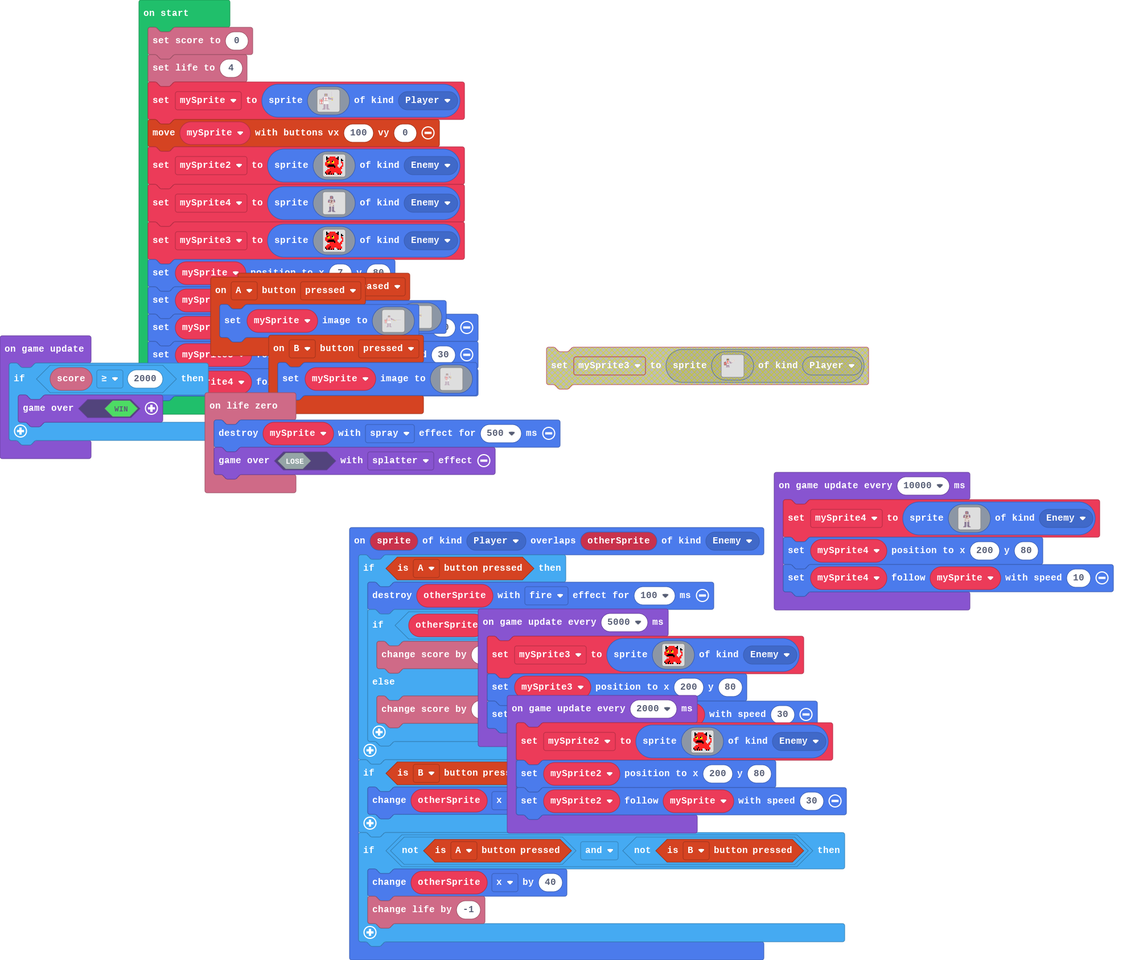
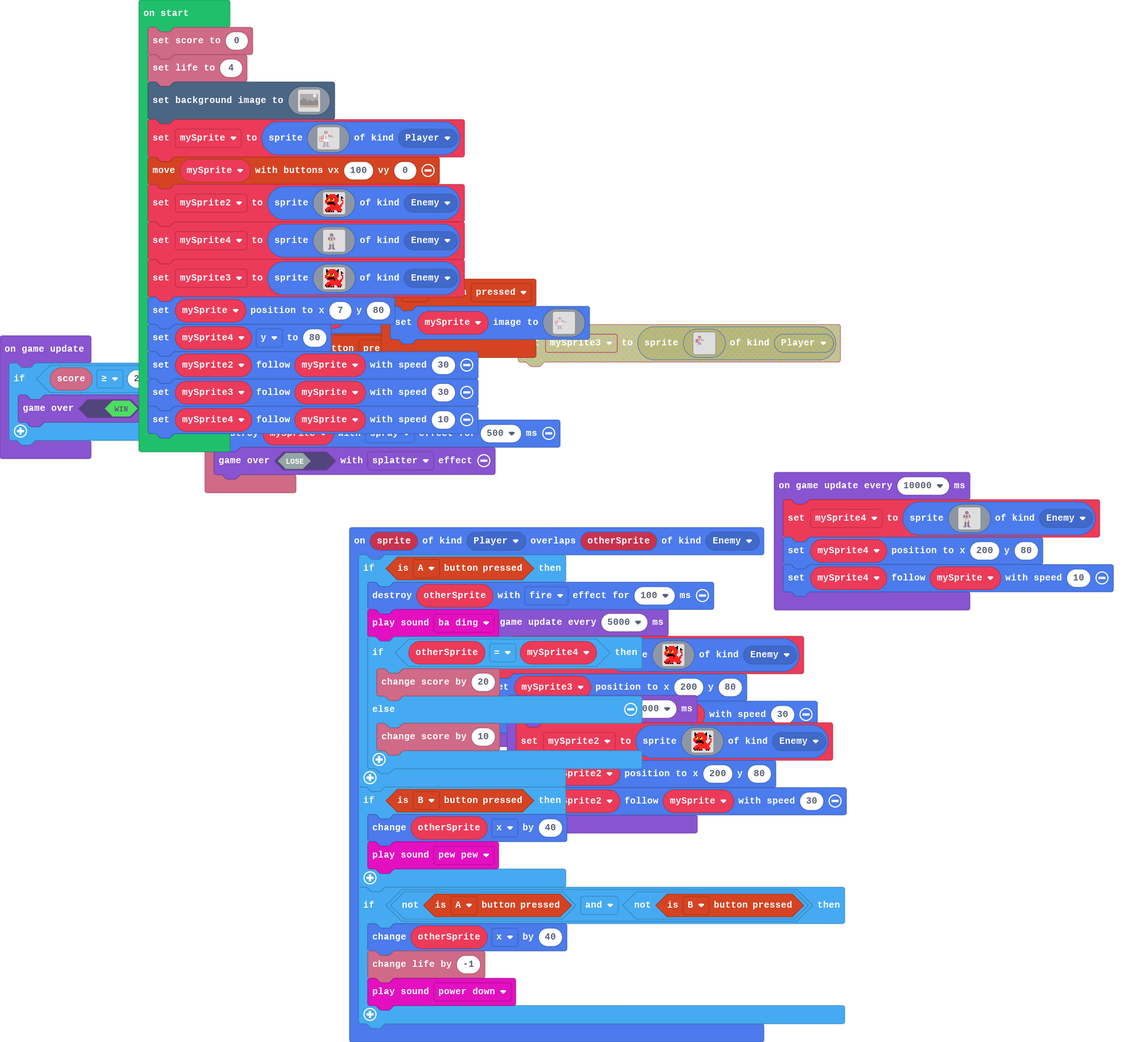
Update main.blocks, main.ts

diff --git a/main.ts b/main.ts
@@ -170,6 +170,7 @@ info.onLifeZero(function () {
 sprites.onOverlap(SpriteKind.Player, SpriteKind.Enemy, function (sprite, otherSprite) {
     if (controller.A.isPressed()) {
         otherSprite.destroy(effects.fire, 100)
+        music.baDing.play()
         if (otherSprite == mySprite4) {
             info.changeScoreBy(20)
         } else {
@@ -178,16 +179,140 @@ sprites.onOverlap(SpriteKind.Player, SpriteKind.Enemy, function (sprite, otherSp
     }
     if (controller.B.isPressed()) {
         otherSprite.x += 40
+        music.pewPew.play()
     }
     if (!(controller.A.isPressed()) && !(controller.B.isPressed())) {
         otherSprite.x += 40
         info.changeLifeBy(-1)
+        music.powerDown.play()
     }
 })
 let mySprite4: Sprite = null
 let mySprite: Sprite = null
 info.setScore(0)
 info.setLife(4)
+scene.setBackgroundImage(img`
+    c c c c c c c c c c c c c c c c c c c c c c c c c c c c c c c c c c c c c c c c c c c c c c c c c c c c c c c c c c c c c c c c c c c c c c c c c c c c c c c c c c c c c c c c c c c c c c c c c c c c c c c c c c c c c c c c c c c c c c c c c c c c c c c c c c c c c c c c c c c c c c c c c c c c c c c c c c c c c c c c 
+    c c c c c c c c c c c c c c c c c c c c c c c c c c c c c c c c c c c c c c c c c c c c c c c c c c c c c c c c c c c c c c c c c c c c c c c c c c c c c c c c c c c c c c c c c c c c c c c c c c c c c c c c c c c c c c c c c c c c c c c c c c c c 1 1 1 1 1 1 1 1 1 1 1 c c c c c c c c c c c c c c c c c c c c c c c c c 
+    c c c c c c c c c c c c c c c c c c c c c c c c c c c c c c c c c c c c c c c c c c c c c c c c c c c c c c c c c c c c c c c c c c c c c c c c c c c c c c c c c c c c c c c c c c c c c c c c c c c c c c c c c c c c c c c c c c c c c c c c c c 1 1 1 1 1 1 1 1 1 1 1 1 1 1 1 c c c c c c c c c c c c c c c c c c c c c c c 
+    c c c c c c c c c c c c c c c c c c c c c c c c c c c c c c c c c c c c c c c c c c c c c c c c c c c c c c c c c c c c c c c c c c c c c c c c c c c c c c c c c c c c c c c c c c c c c c c c c c c c c c c c c c c c c c c c c c c c c c c c 1 1 1 1 1 1 1 1 1 1 1 1 1 1 1 1 1 1 1 c c c c c c c c c c c c c c c c c c c c c 
+    c c c c c c c c c c c c c c c c c c c c c c c c c c c c c c c c c c c c c c c c c c c c c c c c c c c c c c c c c c c c c c c c c c c c c c c c c c c c c c c c c c c c c c c c c c c c c c c c c c c c c c c c c c c c c c c c c c c c c c c 1 1 1 1 1 1 1 1 1 1 1 1 1 1 1 1 1 1 1 1 1 c c c c c c c c c c c c c c c c c c c c 
+    c c c c c c c c c c c c c c c c c c c c c c c c c c c c c c c c c c c c c c c c c c c c c c c c c c c c c c c c c c c c c c c c c c c c c c c c c c c c c c c c c c c c c c c c c c c c c c c c c c c c c c c c c c c c c c c c c c c c c c 1 1 1 1 1 1 1 1 1 1 1 1 1 1 1 1 1 1 1 1 1 1 1 c c c c c c c c c c c c c c c c c c c 
+    c c c c c c c c c c c c c c c c c c c c c c c c c c c c c c c c c c c c c c c c c c c c c c c c c c c c c c c c c c c c c c c c c c c c c c c c c c c c c c c c c c c c c c c c c c c c c c c c c c c c c c c c c c c c c c c c c c c c c 1 1 1 1 1 1 1 1 1 1 1 1 1 1 1 1 1 1 1 1 1 1 1 1 1 c c c c c c c c c c c c c c c c c c 
+    c c c c c c c c c c c c c c c c c c c c c c c c c c c c c c c c c c c c c c c c c c c c c c c c c c c c c c c c c c c c c c c c c c c c c c c c c c c c c c c c c c c c c c c c c c c c c c c c c c c c c c c c c c c c c c c c c c c c c 1 1 1 1 1 1 1 1 1 1 1 1 1 1 1 1 1 1 1 1 1 1 1 1 1 c c c c c c c c c c c c c c c c c c 
+    c c c c c c c c c c c c c c c c c c c c c c c c c c c c c c c c c c c c c c c c c c c c c c c c c c c c c c c c c c c c c c c c c c c c c c c c c c c c c c c c c c c c c c c c c c c c c c c c c c c c c c c c c c c c c c c c c c c c 1 1 1 1 1 1 1 1 1 1 1 1 1 1 1 1 1 1 1 1 1 1 1 1 1 1 1 c c c c c c c c c c c c c c c c c 
+    c c c c c c c c c c c c c c c c c c c c c c c c c c c c c c c c c c c c c c c c c c c c c c c c c c c c c c c c c c c c c c c c c c c c c c c c c c c c c c c c c c c c c c c c c c c c c c c c c c c c c c c c c c c c c c c c c c c c 1 1 1 1 1 1 1 1 1 1 1 1 1 1 1 1 1 1 1 1 1 1 1 1 1 1 1 c c c c c c c c c c c c c c c c c 
+    c c c c c c c c c c c c c c c c c c c c c c c c c c c c c c c c c c c c c c c c c c c c c c c c c c c c c c c c c c c c c c c c c c c c c c c c c c c c c c c c c c c c c c c c c c c c c c c c c c c c c c c c c c c c c c c c c c c 1 1 1 1 1 1 1 1 1 1 1 1 1 1 1 1 1 1 1 1 1 1 1 1 1 1 1 1 1 c c c c c c c c c c c c c c c c 
+    c c c c c c c c c c c c c c c c c c c c c c c c c c c c c c c c c c c c c c c c c c c c c c c c c c c c c c c c c c c c c c c c c c c c c c c c c c c c c c c c c c c c c c c c c c c c c c c c c c c c c c c c c c c c c c c c c c c 1 1 1 1 1 1 1 1 1 1 1 1 1 1 1 1 1 1 1 1 1 1 1 1 1 1 1 1 1 c c c c c c c c c c c c c c c c 
+    c c c c c c c c c c c c c c c c c c c c c c c c c c c c c c c c c c c c c c c c c c c c c c c c c c c c c c c c c c c c c c c c c c c c c c c c c c c c c c c c c c c c c c c c c c c c c c c c c c c c c c c c c c c c c c c c c c c 1 1 1 1 1 1 1 1 1 1 1 1 1 1 1 1 1 1 1 1 1 1 1 1 1 1 1 1 1 c c c c c c c c c c c c c c c c 
+    c c c c c c c c c c c c c c c c c c c c c c c c c c c c c c c c c c c c c c c c c c c c c c c c c c c c c c c c c c c c c c c c c c c c c c c c c c c c c c c c c c c c c c c c c c c c c c c c c c c c c c c c c c c c c c c c c c c 1 1 1 1 1 1 1 1 1 1 1 1 1 1 1 1 1 1 1 1 1 1 1 1 1 1 1 1 1 c c c c c c c c c c c c c c c c 
+    c c c c c c c c c c c c c c c c c c c c c c c c c c c c c c c c c c c c c c c c c c c c c c c c c c c c c c c c c c c c c c c c c c c c c c c c c c c c c c c c c c c c c c c c c c c c c c c c c c c c c c c c c c c c c c c c c c c 1 1 1 1 1 1 1 1 1 1 1 1 1 1 1 1 1 1 1 1 1 1 1 1 1 1 1 1 1 c c c c c c c c c c c c c c c c 
+    c c c c c c c c c c c c c c c c c c c c c c c c c c c c c c c c c c c c c c c c c c c c c c c c c c c c c c c c c c c c c c c c c c c c c c c c c c c c c c c c c c c c c c c c c c c c c c c c c c c c c c c c c c c c c c c c c c c 1 1 1 1 1 1 1 1 1 1 1 1 1 1 1 1 1 1 1 1 1 1 1 1 1 1 1 1 1 c c c c c c c c c c c c c c c c 
+    c c c c c c c c c c c c c c c c c c c c c c c c c c c c c c c c c c c c c c c c c c c c c c c c c c c c c c c c c c c c c c c c c c c c c c c c c c c c c c c c c c c c c c c c c c c c c c c c c c c c c c c c c c c c c c c c c c c 1 1 1 1 1 1 1 1 1 1 1 1 1 1 1 1 1 1 1 1 1 1 1 1 1 1 1 1 1 c c c c c c c c c c c c c c c c 
+    c c c c c c c c c c c c c c c c c c c c c c c c c c c c c c c c c c c c c c c c c c c c c c c c c c c c c c c c c c c c c c c c c c c c c c c c c c c c c c c c c c c c c c c c c c c c c c c c c c c c c c c c c c c c c c c c c c c 1 1 1 1 1 1 1 1 1 1 1 1 1 1 1 1 1 1 1 1 1 1 1 1 1 1 1 1 1 c c c c c c c c c c c c c c c c 
+    c c c c c c c c c c c c c c c c c c c c c c c c c c c c c c c c c c c c c c c c c c c c c c c c c c c c c c c c c c c c c c c c c c c c c c c c c c c c c c c c c c c c c c c c c c c c c c c c c c c c c c c c c c c c c c c c c c c 1 1 1 1 1 1 1 1 1 1 1 1 1 1 1 1 1 1 1 1 1 1 1 1 1 1 1 1 1 c c c c c c c c c c c c c c c c 
+    c c c c c c c c c c c c c c c c c c c c c c c c c c c c c c c c c c c c c c c c c c c c c c c c c c c c c c c c c c c c c c c c c c c c c c c c c c c c c c c c c c c c c c c c c c c c c c c c c c c c c c c c c c c c c c c c c c c 1 1 1 1 1 1 1 1 1 1 1 1 1 1 1 1 1 1 1 1 1 1 1 1 1 1 1 1 1 c c c c c c c c c c c c c c c c 
+    c c c c c c c c c c c c c c c c c c c c c c c c c c c c c c c c c c c c c c c c c c c c c c c c c c c c c c c c c c c c c c c c c c c c c c c c c c c c c c c c c c c c c c c c c c c c c c c c c c c c c c c c c c c c c c c c c c c 1 1 1 1 1 1 1 1 1 1 1 1 1 1 1 1 1 1 1 1 1 1 1 1 1 1 1 1 1 c c c c c c c c c c c c c c c c 
+    c c c c c c c c c c c c c c c c c c c c c c c c c c c c c c c c c c c c c c c c c c c c c c c c c c c c c c c c c c c c c c c c c c c c c c c c c c c c c c c c c c c c c c c c c c c c c c c c c c c c c c c c c c c c c c c c c c c c 1 1 1 1 1 1 1 1 1 1 1 1 1 1 1 1 1 1 1 1 1 1 1 1 1 1 1 c c c c c c c c c c c c c c c c c 
+    c c c c c c c c c c c c c c c c c c c c c c c c c c c c c c c c c c c c c c c c c c c c c c c c c c c c c c c c c c c c c c c c c c c c c c c c c c c c c c c c c c c c c c c c c c c c c c c c c c c c c c c c c c c c c c c c c c c c 1 1 1 1 1 1 1 1 1 1 1 1 1 1 1 1 1 1 1 1 1 1 1 1 1 1 1 c c c c c c c c c c c c c c c c c 
+    c c c c c c c c c c c c c c c c c c c c c c c c c c c c c c c c c c c c c c c c c c c c c c c c c c c c c c c c c c c c c c c c c c c c c c c c c c c c c c c c c c c c c c c c c c c c c c c c c c c c c c c c c c c c c c c c c c c c c 1 1 1 1 1 1 1 1 1 1 1 1 1 1 1 1 1 1 1 1 1 1 1 1 1 c c c c c c c c c c c c c c c c c c 
+    c c c c c c c c c c c c c c c c c c c c c c c c c c c c c c c c c c c c c c c c c c c c c c c c c c c c c c c c c c c c c c c c c c c c c c c c c c c c c c c c c c c c c c c c c c c c c c c c c c c c c c c c c c c c c c c c c c c c c 1 1 1 1 1 1 1 1 1 1 1 1 1 1 1 1 1 1 1 1 1 1 1 1 1 c c c c c c c c c c c c c c c c c c 
+    c c c c c c c c c c c c c c c c c c c c c c c c c c c c c c c c c c c c c c c c c c c c c c c c c c c c c c c c c c c c c c c c c c c c c c c c c c c c c c c c c c c c c c c c c c c c c c c c c c c c c c c c c c c c c c c c c c c c c c 1 1 1 1 1 1 1 1 1 1 1 1 1 1 1 1 1 1 1 1 1 1 1 c c c c c c c c c c c c c c c c c c c 
+    c c c c c c c c c c c c c c c c c c c c c c c c c c c c c c c c c c c c c c c c c c c c c c c c c c c c c c c c c c c c c c c c c c c c c c c c c c c c c c c c c c c c c c c c c c c c c c c c c c c c c c c c c c c c c c c c c c c c c c c 1 1 1 1 1 1 1 1 1 1 1 1 1 1 1 1 1 1 1 1 1 c c c c c c c c c c c c c c c c c c c c 
+    c c c c c c c c c c c c c c c c c c c c c c c c c c c c c c c c c c c c c c c c c c c c c c c c c c c c c c c c c c c c c c c c c c c c c c c c c c c c c c c c c c c c c c c c c c c c c c c c c c c c c c c c c c c c c c c c c c c c c c c c 1 1 1 1 1 1 1 1 1 1 1 1 1 1 1 1 1 1 1 c c c c c c c c c c c c c c c c c c c c c 
+    c c c c c c c c c c c c c c c c c c c c c c c c c c c c c c c c c c c c c c c c c c c c c c c c c c c c c c c c c c c c c c c c c c c c c c c c c c c c c c c c c c c c c c c c c c c c c c c c c c c c c c c c c c c c c c c c c c c c c c c c c c 1 1 1 1 1 1 1 1 1 1 1 1 1 1 1 c c c c c c c c c c c c c c c c c c c c c c c 
+    c c c c c c c c c c c c c c c c c c c c c c c c c c c c c c c c c c c c c c c c c c c c c c c c c c c c c c c c c c c c c c c c c c c c c c c c c c c c c c c c c c c c c c c c c c c c c c c c c c c c c c c c c c c c c c c c c c c c c c c c c c c c 1 1 1 1 1 1 1 1 1 1 1 c c c c c c c c c c c c c c c c c c c c c c c c c 
+    c c c c c c c c c c c c c c c c c c c c c c c c c c c c c c c c c c c c c c c c c c c c c c c c c c c c c c c c c c c c c c c c c c c c c c c c c c c c c c c c c c c c c c c c c c c c c c c c c c c c c c c c c c c c c c c c c c c c c c c c c c c c c c c c c c c c c c c c c c c c c c c c c c c c c c c c c c c c c c c c 
+    c c c c c c c c c c c c c c c c c c c c c c c c c c c c f c c c c c c c c c c c c c c c c c c c c c c c c c c c c c c c c c c c c c c c c c c c c c c c c c c c c c c c c c c c c c c c c c c c c c c c c c c c c c c c c c c c c c c c c c c c c c c c c c c c c c c c c c c c c c c c c c c c c c c c c c c c c c c c c c c c 
+    c c c c c c c c c c c c c c c c c c c c c c c c c c c f f c c c c c c f c c c c c c c c c c c c c c c c c c c c c c c c c c c c c c c c c c c c c c c c c c c c c c c c c c c c c c c c c c c c c c c c c c c c c c c c c c c c c c c c c c c c c c c c c c c c c c c c c c c c c c c c c c c c c c c c c c c c c c c c c c c c 
+    c c c c c c c c c c c c c c c c c c c c c c c c c c c f f f c c c c c f c c c c c c c c c c c c f c c c c c c c c c c c c c c c c c c c c c c c c c c c c c c c c c c c c c c c c c c c c c c c c c c c c c c c c c c c c c c c c c c c c c c c c c c c c c c c c c c c c c c c c c c c c c c c c c c c c c c c c c c c c c c c 
+    c c c c c c c c c c c c c c c c c c c c c c c c c c f f f f f c c c c f f c c c c c c c c c c f f f c c c c c c c c c c c c c c c c c c c c c c c c c c c c c c c c c c c c c c c c c c c c c c c c c c c c c c c c c c c c c c c c c c c c c c c c c c c c c c c c c c c c c c c c c c c c c c c c c c c c c c c c c c c c c c 
+    c c c c c c c c c c c c c c c c c c c c c c c c c f f f f f f f c c c f f c c c c c c c c c c f f f c c c c c c c c c c c c c c c c c c c c c c c c c c c c c c c c c c c c c c c c c c c c c c c c c c c c c c c c c c c c c c c c c c c c c c c c c c c c c c c c c c c c c c c c c c c c c c c c c c c c c c c c c c c c c c 
+    c c c c c c c c c c c c c c c c c c c c c c c c c f f f f f f c c c f f f c c c c c c c c c f f f f f c c c c c c c c c c c c c c c c c c c c c c c c c c c c c c c c c c c c c c c c c c c c c c c c c c c c c c c c c c c c c c c c c c c c c c c c c c c c c c c c c c c c c c c c c c c c c c c c c c c c c c c c c c c c c 
+    c c c c c c c c c c c c c c c c c c c c c c c c c c f f f f f c c c f f f f c c c c c c c c f f f f f f c c c c c c c c c c c c c c c c c c c c c c c c c c c c c c c c c c c c c c c c c c c c c c c c c c c c c c c c c c c c c c c c c c c c c c c c c c c c c c c c c c c c c c c c c c c c c c c c c c c c c c c c c c c c 
+    c c c c c c c c c c c c c c c c c c c c c c c c c f f f f f f f c c c f f c c c c c c c c c c f f f f c c c c c c c c c c c c c c c c c c c c c c c c c c c c c c c c c c c c c c c c c c c c c c c c c c c c c c c c c c c c c c c c c c c c c c c c c c c c c c c c c c c c c c c c c c c c c c c c c c c c c c c c c c c c c 
+    c c c c c c c c c c c c c c c c c c c c c c c c c c f f f f f f f c c f f f c c c c c c c f f f f f f c c c c c c c c c c c c c c c c c c c c c c c c c c c c c c c c c c c c c c c c c c c c c c c c c c c c c c c c c c c c c c c c c c c c c c c c c c c c c c c c c c c c c c c c c c c c c c c c c c c c c c c c c c c c c 
+    c c c c c c c c c c c c c c c c c c c c c c c c c f f f f f f c c c f f f c c c c c c c c c f f f f f f c c c c c c c c c c c c c c c c c c c c c c c c c c c c c c c c c c c c c c c c c c c c c c c c c c c c c c c c c c c c c c c c c c c c c c c c c c c c c c c c c c c c c c c c c c c c c c c c c c c c c c c c c c c c 
+    c c c c c c c c c c c c c c c c c c c c c c c c f f f f f f f f c c f f f f c c c c c c c f f f f f f f f c c c c c c c c c c c c c c c c c c c c c c c c c c c c c c c c c c c c c c c c c c c c c c c c c c c c c c c c c c c c c c c c c c c c c c c c c c c c c c c c c c c c c c c c c c c c c c c c c c c c c c c c c c c 
+    c c c c c c c c c c c c c c c c c c c c c c c c c c f f f f f f f f f f f f c c c c c c f f f f f f f c c c c c c c c c c c c c c c c c c c c c c c c c c c c c c c c c c c c c c c c c c c c c c c c c c c c c c c c c c c c c c c c c c c c c c c c c c c c c c c c c c c c c c c c c c c c c c c c c c c c c c c c c c c c c 
+    c c c c c c c c c c c c c c c c c c c c c c c c c f f f f f f f f f f f f f f f f f f f f f f f f f f f c c c c c c c c c c c c c c c c c c c c c c c c c c c c c c c c c c c c c c c c c c c c c c c c c c c c c c c c c c c c c c c c c c c c c c c c c c c c c c c c c c c c c c c c c c c c c c c c c c c c c c c c c c c c 
+    c c c c c c c c c c c c c f c c c c c c c c c c f f f f f f f f f f f f f f f f f f f f f f f f f f f f f c c c c c c c c c c c c c c c c c c c c c c c c c c c c c c c c c c c c c c c c c c c c c c c c c c c c c c c c c c c c c c c c c c c c c c c c c c c c c c c c c c c c c c c c f c c c c c c c c c c c c c c c c c c 
+    c c c c c c c c c c c c f f f c c c c c c c c c c c f f f f f f f f f f f f f f f f f f f f f f f c c c c c c c c c c c c c c c c c c c c c c c c c c c c c c c c c c c c c c c c c c c c c c c c c c c c c c c c c c c c c c c c c c c c c c c c c c c c c c c c c c c c c c f c c c c f f c c c c c c c c c c c c c c c c c c 
+    c c c c c c c c c c c c f f c c c c c c c c c c f f f f f f f f f f f f f f f f f f f f f f f f f f c c c c c c c c c c c c c c c c c c c c c c c c c c c c c c c c c c f c c c c c c c c c c c c c c c c c c c c c c c c c c c c c c c c c c c c c c c c c c c c c c c c c c f f c c c f f c c c c c c c c c c c c c c c c c c 
+    c c c c c c c c c c c f f f c c c c c c c c c f f f f f f f f f f f f f f f f f f f f f f f f f f f f c c c c c c c c c c c c c c c c c c c c c c c c c c c c c c c c c f f c c c c c c c c c c c c c c c c c c c c c c c c c c c c c c c c c c c c c c c c c c c c c c c c c f f c c f f f c c c c c c c c c c c c c c c c c c 
+    c c c c c c c c c c f f f f f c c c c c c f f f f f f f f f f f f f f f f f f f f f f f f f f f f f f f c c c c c c c c c c c c c c c c c c c c c c c c c c c c c c c c f f c c c c c c c c c c c c c c c c c c c c c c c c c c c c c c c c c c c c c c c c c c c c f c c c f f f f c f f f f f c c c c c c c c c c c c c c c c 
+    c c c c c c c c c c c f f f c c c c c f f f f f f f f f f f f f f f f f f f f f f f f f f f f f f f f f f c c c c c c c c c c c c c c c c c c c c c c c c c c c c c c f f f f c c c c c c c c c c c c c c c c c c c c c c c c c c c c c c c c c c c c c c c c c c f f f c c f f f f c c f f c c c c c c c c c c c c c c c c c c 
+    c c c c c c c c c c c c f f f c c c f f f f f f f f f f f f f f f f f f f f f f f f f f f f f f f f f f f f c c c c c c c c c c c c c c c c c c c c c c c c c c c c c f f f f c c c c f c c c c c c c c c c c c c c c c c c c c c c c c c c c c c c c c c c c c c f f f c c c f f c c f f f f f f c c c c c c c c c c c c c c c 
+    c c c c c c c c c c f f f f c c f f f f f f f f f f f f f f f f f f f f f f f f f f f f f f f f f f f f f f f c c c c c c c c c c c c c c c c c c c c c f f c c c c c c f f c c c c c f c c c c c c c c c c c c c c c c c c c c c c c c c c c c c c c c c c c c f f f f c f f f f f f f f f c c c c c c c c c f c c c c c c c c 
+    c c c c c c c c c c c f f f f f f f f f f f f f f f f f f f f f f f f f f f f f f f f f f f f f f f f f f f f f c c c c c c c c c c c c c c c c c c c f f f c c c c f f f f f f c c c f f c c c c c c c c c c c c c c c c c c c c c c c c c c c c c c c c c c c c c f f f f f f f f f f f f f c c c c c c c c f c c c c c c c c 
+    c c c c c c c c c c c c f f f f f f f f f f f f f f f f f f f f f f f f f f f f f f f f f f f f f f f f f f f f f c c c c c c c c c c c c c c c c c f f f f c c c c c f f f f c c c c f f c c c c c c c c c c c c c c c c c c c c c c c c c c c c c c c c c c c c f f f f f f f f f f f f f c c c c c c c c f f f f c c c c c c 
+    c c c c c c c c c c c c f f f f f f f f f f f f f f f f f f f f f f f f f f f f f f f f f f f f f f f f f f f f f f c c c c c c c c c c c c c c c c c c f f f c c c c f f f f f c c f f f c c c c c c c c c c c c c f c c c c c c c c c c c c c c c c c c c c f f f f f f f f f f f f f f f c c c c c c c c c f c c c c c c c c 
+    c c c c c c c c c c c f f f f f f f f f f f f f f f f f f f f f f f f f f f f f f f f f f f f f f f f f f f f f f f c c c c c c c c c c c c c c c c f f f f f f c f f f f f f f f c f f f f c c c c c c c c c c c f f c c c c c c c c c c c c c c c c c c c c c f f f f f f f f f f f f f f f f f c c c c f f f f c c c c c c c 
+    c c c c c c c c c c f f f f f f f f f f f f f f f f f f f f f f f f f f f f f f f f f f f f f f f f f f f f f f f f f c c c c c c c c c c c c c c f f f f f f f f f f f f f f f f f f f f c c c c c c c c c c c c f f f c c c c c c c c c c c c c f c c c c c f f f f f f f f f f f f f f f f f f f f c c c f f f c c c c c c c 
+    c c c c c c c c f f f f f f f f f f f f f f f f f f f f f f f f f f f f f f f f f f f f f f f f f f f f f f f f f f f f c c c c c c c c c c c c c c c f f f f f f f f f f f f f f f f f f f c c c c c c c c c c f f f f f c c c c c c c c c c c c f c c c c f f f f f f f f f f f f f f f f f f f f f f c c f f f f f c c c c c 
+    c c c c c c c f f f f f f f f f f f f f f f f f f f f f f f f f f f f f f f f f f f f f f f f f f f f f f f f f f f f f f c c c c c c c c c c c c c f f f f f f f f f f f f f f f f f f f c c c c c c c c c c f f f f f f f c c c c c c c c c c c f f c c c c c f f f f f f f f f f f f f f f f f f f f f f f f f f c c c c c c 
+    c c c c c c f f f f f f f f f f f f f f f f f f f f f f f f f f f f f f f f f f f f f f f f f f f f f f f f f f f f f f f f c c c c c c c c c c c f f f f f f f f f f f f f f f f f f f f f f f c c c c c c c f f f f f f c c c c c c c c c c c c f f c c c c f f f f f f f f f f f f f f f f f f f f f f f f f f c c c c c c c 
+    c c c c c f f f f f f f f f f f f f f f f f f f f f f f f f f f f f f f f f f f f f f f f f f f f f f f f f f f f f f f f f f c c c c c c c c c c c c c f f f f f f f f f f f f f f f f f f f f f f f c c c c c f f f f f c c c c c c c c c c c f f f c c c c f f f f f f f f f f f f f f f f f f f f f f f f f f c c c c c c c 
+    c c c f f f f f f f f f f f f f f f f f f f f f f f f f f f f f f f f f f f f f f f f f f f f f f f f f f f f f f f f f f f f f c c c c c c c c c c c f f f f f f f f f f f f f f f f f f f f f f f f f f c c f f f f f f f c c c c c c c c c c c f c c c c f f f f f f f f f f f f f f f f f f f f f f f f f f f f c c c c c c 
+    c c f f f f f f f f f f f f f f f f f f f f f f f f f f f f f f f f f f f f f f f f f f f f f f f f f f f f f f f f f f f f f f f c c c c c c c c f f f f f f f f f f f f f f f f f f f f f f f f f f f f f f f f f f f f f c c c c c c c c c c f f f f c c f f f f f f f f f f f f f f f f f f f f f f f f f f f f f f c c c c 
+    c f f f f f f f f f f f f f f f f f f f f f f f f f f f f f f f f f f f f f f f f f f f f f f f f f f f f f f f f f f f f f f f f f f c c c c c f f f f f f f f f f f f f f f f f f f f f f f f f f f f f f f f f f f f f c c c c c c c c c c c c f f c c f f f f f f f f f f f f f f f f f f f f f f f f f f f f f f f f f c c 
+    f f f f f f f f f f f f f f f f f f f f f f f f f f f f f f f f f f f f f f f f f f f f f f f f f f f f f f f f f f f f f f f f f f f f c c c f f f f f f f f f f f f f f f f f f f f f f f f f f f f f f f f f f f f f f f c c c c c c c c c f f f f f f f f f f f f f f f f f f f f f f f f f f f f f f f f f f f f f f f f f 
+    f f f f f f f f f f f f f f f f f f f f f f f f f f f f f f f f f f f f f f f f f f f f f f f f f f f f f f f f f f f f f f f f f f f f f f f f f f f f f f f f f f f f f f f f f f f f f f f f f f f f f f f f f f f f f f c c c c c c c c c c f f f f f f f f f f f f f f f f f f f f f f f f f f f f f f f f f f f f f f f f 
+    f f f f f f f f f f f f f f f f f f f f f f f f f f f f f f f f f f f f f f f f f f f f f f f f f f f f f f f f f f f f f f f f f f f f f f f f f f f f f f f f f f f f f f f f f f f f f f f f f f f f f f f f f f f f f f f c c c c c c c c c c f f f f f f f f f f f f f f f f f f f f f f f f f f f f f f f f f f f f f f f 
+    f f f f f f f f f f f f f f f f f f f f f f f f f f f f f f f f f f f f f f f f f f f f f f f f f f f f f f f f f f f f f f f f f f f f f f f f f f f f f f f f f f f f f f f f f f f f f f f f f f f f f f f f f f f f f f f f c c c c c c c f f f f f f f f f f f f f f f f f f f f f f f f f f f f f f f f f f f f f f f f f 
+    f f f f f f f f f f f f f f f f f f f f f f f f f f f f f f f f f f f f f f f f f f f f f f f f f f f f f f f f f f f f f f f f f f f f f f f f f f f f f f f f f f f f f f f f f f f f f f f f f f f f f f f f f f f f f f f f f f c c c c f f f f f f f f f f f f f f f f f f f f f f f f f f f f f f f f f f f f f f f f f f 
+    f f f f f f f f f f f f f f f f f f f f f f f f f f f f f f f f f f f f f f f f f f f f f f f f f f f f f f f f f f f f f f f f f f f f f f f f f f f f f f f f f f f f f f f f f f f f f f f f f f f f f f f f f f f f f f f f f f f f f f f f f f f f f f f f f f f f f f f f f f f f f f f f f f f f f f f f f f f f f f f f 
+    f f f f f f f f f f f f f f f f f f f f f f f f f f f f f f f f f f f f f f f f f f f f f f f f f f f f f f f f f f f f f f f f f f f f f f f f f f f f f f f f f f f f f f f f f f f f f f f f f f f f f f f f f f f f f f f f f f f f f f f f f f f f f f f f f f f f f f f f f f f f f f f f f f f f f f f f f f f f f f f f 
+    f f f f f f f f f f f f f f f f f f f f f f f f f f f f f f f f f f f f f f f f f f f f f f f f f f f f f f f f f f f f f f f f f f f f f f f f f f f f f f f f f f f f f f f f f f f f f f f f f f f f f f f f f f f f f f f f f f f f f f f f f f f f f f f f f f f f f f f f f f f f f f f f f f f f f f f f f f f f f f f f 
+    f f f f f f f f f f f f f f f f f f f f f f f f f f f f f f f f f f f f f f f f f f f f f f f f f f f f f f f f f f f f f f f f f f f f f f f f f f f f f f f f f f f f f f f f f f f f f f f f f f f f f f f f f f f f f f f f f f f f f f f f f f f f f f f f f f f f f f f f f f f f f f f f f f f f f f f f f f f f f f f f 
+    f f f f f f f f f f f f f f f f f f f f f f f f f f f f f f f f f f f f f f f f f f f f f f f f f f f f f f f f f f f f f f f f f f f f f f f f f f f f f f f f f f f f f f f f f f f f f f f f f f f f f f f f f f f f f f f f f f f f f f f f f f f f f f f f f f f f f f f f f f f f f f f f f f f f f f f f f f f f f f f f 
+    f f f f f f f f f f f f f f f f f f f f f f f f f f f f f f f f f f f f f f f f f f f f f f f f f f f f f f f f f f f f f f f f f f f f f f f f f f f f f f f f f f f f f f f f f f f f f f f f f f f f f f f f f f f f f f f f f f f f f f f f f f f f f f f f f f f f f f f f f f f f f f f f f f f f f f f f f f f f f f f f 
+    f f f f f f f f f f f f f f f f f f f f f f f f f f f f f f f f f f f f f f f f f f f f f f f f f f f f f f f f f f f f f f f f f f f f f f f f f f f f f f f f f f f f f f f f f f f f f f f f f f f f f f f f f f f f f f f f f f f f f f f f f f f f f f f f f f f f f f f f f f f f f f f f f f f f f f f f f f f f f f f f 
+    f f f f f f f f f f f f f f f f f f f f f f f f f f f f f f f f f f f f f f f f f f f f f f f f f f f f f f f f f f f f f f f f f f f f f f f f f f f f f f f f f f f f f f f f f f f f f f f f f f f f f f f f f f f f f f f f f f f f f f f f f f f f f f f f f f f f f f f f f f f f f f f f f f f f f f f f f f f f f f f f 
+    f f f f f f f f f f f f f f f f f f f f f f f f f f f f f f f f f f f f f f f f f f f f f f f f f f f f f f f f f f f f f f f f f f f f f f f f f f f f f f f f f f f f f f f f f f f f f f f f f f f f f f f f f f f f f f f f f f f f f f f f f f f f f f f f f f f f f f f f f f f f f f f f f f f f f f f f f f f f f f f f 
+    f f f f f f f f f f f f f f f f f f f f f f f f f f f f f f f f f f f f f f f f f f f f f f f f f f f f f f f f f f f f f f f f f f f f f f f f f f f f f f f f f f f f f f f f f f f f f f f f f f f f f f f f f f f f f f f f f f f f f f f f f f f f f f f f f f f f f f f f f f f f f f f f f f f f f f f f f f f f f f f f 
+    f f f f f f f f f f f f f f f f f f f f f f f f f f f f f f f f f f f f f f f f f f f f f f f f f f f f f f f f f f f f f f f f f f f f f f f f f f f f f f f f f f f f f f f f f f f f f f f f f f f f f f f f f f f f f f f f f f f f f f f f f f f f f f f f f f f f f f f f f f f f f f f f f f f f f f f f f f f f f f f f 
+    f f f f f f f f f f f f f f f f f f f f f f f f f f f f f f f f f f f f f f f f f f f f f f f f f f f f f f f f f f f f f f f f f f f f f f f f f f f f f f f f f f f f f f f f f f f f f f f f f f f f f f f f f f f f f f f f f f f f f f f f f f f f f f f f f f f f f f f f f f f f f f f f f f f f f f f f f f f f f f f f 
+    f f f f f f f f f f f f f f f f f f f f f f f f f f f f f f f f f f f f f f f f f f f f f f f f f f f f f f f f f f f f f f f f f f f f f f f f f f f f f f f f f f f f f f f f f f f f f f f f f f f f f f f f f f f f f f f f f f f f f f f f f f f f f f f f f f f f f f f f f f f f f f f f f f f f f f f f f f f f f f f f 
+    f f f f f f f f f f f f f f f f f f f f f f f f f f f f f f f f f f f f f f f f f f f f f f f f f f f f f f f f f f f f f f f f f f f f f f f f f f f f f f f f f f f f f f f f f f f f f f f f f f f f f f f f f f f f f f f f f f f f f f f f f f f f f f f f f f f f f f f f f f f f f f f f f f f f f f f f f f f f f f f f 
+    f f f f f f f f f f f f f f f f f f f f f f f f f f f f f f f f f f f f f f f f f f f f f f f f f f f f f f f f f f f f f f f f f f f f f f f f f f f f f f f f f f f f f f f f f f f f f f f f f f f f f f f f f f f f f f f f f f f f f f f f f f f f f f f f f f f f f f f f f f f f f f f f f f f f f f f f f f f f f f f f 
+    f f f f f f f f f f f f f f f f f f f f f f f f f f f f f f f f f f f f f f f f f f f f f f f f f f f f f f f f f f f f f f f f f f f f f f f f f f f f f f f f f f f f f f f f f f f f f f f f f f f f f f f f f f f f f f f f f f f f f f f f f f f f f f f f f f f f f f f f f f f f f f f f f f f f f f f f f f f f f f f f 
+    f f f f f f f f f f f f f f f f f f f f f f f f f f f f f f f f f f f f f f f f f f f f f f f f f f f f f f f f f f f f f f f f f f f f f f f f f f f f f f f f f f f f f f f f f f f f f f f f f f f f f f f f f f f f f f f f f f f f f f f f f f f f f f f f f f f f f f f f f f f f f f f f f f f f f f f f f f f f f f f f 
+    f f f f f f f f f f f f f f f f f f f f f f f f f f f f f f f f f f f f f f f f f f f f f f f f f f f f f f f f f f f f f f f f f f f f f f f f f f f f f f f f f f f f f f f f f f f f f f f f f f f f f f f f f f f f f f f f f f f f f f f f f f f f f f f f f f f f f f f f f f f f f f f f f f f f f f f f f f f f f f f f 
+    f f f f f f f f f f f f f f f f f f f f f f f f f f f f f f f f f f f f f f f f f f f f f f f f f f f f f f f f f f f f f f f f f f f f f f f f f f f f f f f f f f f f f f f f f f f f f f f f f f f f f f f f f f f f f f f f f f f f f f f f f f f f f f f f f f f f f f f f f f f f f f f f f f f f f f f f f f f f f f f f 
+    f f f f f f f f f f f f f f f f f f f f f f f f f f f f f f f f f f f f f f f f f f f f f f f f f f f f f f f f f f f f f f f f f f f f f f f f f f f f f f f f f f f f f f f f f f f f f f f f f f f f f f f f f f f f f f f f f f f f f f f f f f f f f f f f f f f f f f f f f f f f f f f f f f f f f f f f f f f f f f f f 
+    f f f f f f f f f f f f f f f f f f f f f f f f f f f f f f f f f f f f f f f f f f f f f f f f f f f f f f f f f f f f f f f f f f f f f f f f f f f f f f f f f f f f f f f f f f f f f f f f f f f f f f f f f f f f f f f f f f f f f f f f f f f f f f f f f f f f f f f f f f f f f f f f f f f f f f f f f f f f f f f f 
+    f f f f f f f f f f f f f f f f f f f f f f f f f f f f f f f f f f f f f f f f f f f f f f f f f f f f f f f f f f f f f f f f f f f f f f f f f f f f f f f f f f f f f f f f f f f f f f f f f f f f f f f f f f f f f f f f f f f f f f f f f f f f f f f f f f f f f f f f f f f f f f f f f f f f f f f f f f f f f f f f 
+    f f f f f f f f f f f f f f f f f f f f f f f f f f f f f f f f f f f f f f f f f f f f f f f f f f f f f f f f f f f f f f f f f f f f f f f f f f f f f f f f f f f f f f f f f f f f f f f f f f f f f f f f f f f f f f f f f f f f f f f f f f f f f f f f f f f f f f f f f f f f f f f f f f f f f f f f f f f f f f f f 
+    f f f f f f f f f f f f f f f f f f f f f f f f f f f f f f f f f f f f f f f f f f f f f f f f f f f f f f f f f f f f f f f f f f f f f f f f f f f f f f f f f f f f f f f f f f f f f f f f f f f f f f f f f f f f f f f f f f f f f f f f f f f f f f f f f f f f f f f f f f f f f f f f f f f f f f f f f f f f f f f f 
+    f f f f f f f f f f f f f f f f f f f f f f f f f f f f f f f f f f f f f f f f f f f f f f f f f f f f f f f f f f f f f f f f f f f f f f f f f f f f f f f f f f f f f f f f f f f f f f f f f f f f f f f f f f f f f f f f f f f f f f f f f f f f f f f f f f f f f f f f f f f f f f f f f f f f f f f f f f f f f f f f 
+    f f f f f f f f f f f f f f f f f f f f f f f f f f f f f f f f f f f f f f f f f f f f f f f f f f f f f f f f f f f f f f f f f f f f f f f f f f f f f f f f f f f f f f f f f f f f f f f f f f f f f f f f f f f f f f f f f f f f f f f f f f f f f f f f f f f f f f f f f f f f f f f f f f f f f f f f f f f f f f f f 
+    f f f f f f f f f f f f f f f f f f f f f f f f f f f f f f f f f f f f f f f f f f f f f f f f f f f f f f f f f f f f f f f f f f f f f f f f f f f f f f f f f f f f f f f f f f f f f f f f f f f f f f f f f f f f f f f f f f f f f f f f f f f f f f f f f f f f f f f f f f f f f f f f f f f f f f f f f f f f f f f f 
+    f f f f f f f f f f f f f f f f f f f f f f f f f f f f f f f f f f f f f f f f f f f f f f f f f f f f f f f f f f f f f f f f f f f f f f f f f f f f f f f f f f f f f f f f f f f f f f f f f f f f f f f f f f f f f f f f f f f f f f f f f f f f f f f f f f f f f f f f f f f f f f f f f f f f f f f f f f f f f f f f 
+    f f f f f f f f f f f f f f f f f f f f f f f f f f f f f f f f f f f f f f f f f f f f f f f f f f f f f f f f f f f f f f f f f f f f f f f f f f f f f f f f f f f f f f f f f f f f f f f f f f f f f f f f f f f f f f f f f f f f f f f f f f f f f f f f f f f f f f f f f f f f f f f f f f f f f f f f f f f f f f f f 
+    f f f f f f f f f f f f f f f f f f f f f f f f f f f f f f f f f f f f f f f f f f f f f f f f f f f f f f f f f f f f f f f f f f f f f f f f f f f f f f f f f f f f f f f f f f f f f f f f f f f f f f f f f f f f f f f f f f f f f f f f f f f f f f f f f f f f f f f f f f f f f f f f f f f f f f f f f f f f f f f f 
+    f f f f f f f f f f f f f f f f f f f f f f f f f f f f f f f f f f f f f f f f f f f f f f f f f f f f f f f f f f f f f f f f f f f f f f f f f f f f f f f f f f f f f f f f f f f f f f f f f f f f f f f f f f f f f f f f f f f f f f f f f f f f f f f f f f f f f f f f f f f f f f f f f f f f f f f f f f f f f f f f 
+    e e e e e e e e e e e e e e e e e e e e e e e e e e e e e e e e e e e e e e e e e e e e e e e e e e e e e e e e e e e e e e e e e e e e e e e e e e e e e e e e e e e e e e e e e e e e e e e e e e e e e e e e e e e e e e e e e e e e e e e e e e e e e e e e e e e e e e e e e e e e e e e e e e e e e e e e e e e e e e e e 
+    e e e e e e e e e e e e e e e e e e e e e e e e e e e e e e e e e e e e e e e e e e e e e e e e e e e e e e e e e e e e e e e e e e e e e e e e e e e e e e e e e e e e e e e e e e e e e e e e e e e e e e e e e e e e e e e e e e e e e e e e e e e e e e e e e e e e e e e e e e e e e e e e e e e e e e e e e e e e e e e e 
+    e e e e e e e e e e e e e e e e e e e e e e e e e e e e e e e e e e e e e e e e e e e e e e e e e e e e e e e e e e e e e e e e e e e e e e e e e e e e e e e e e e e e e e e e e e e e e e e e e e e e e e e e e e e e e e e e e e e e e e e e e e e e e e e e e e e e e e e e e e e e e e e e e e e e e e e e e e e e e e e e 
+    e e e e e e e e e e e e e e e e e e e e e e e e e e e e e e e e e e e e e e e e e e e e e e e e e e e e e e e e e e e e e e e e e e e e e e e e e e e e e e e e e e e e e e e e e e e e e e e e e e e e e e e e e e e e e e e e e e e e e e e e e e e e e e e e e e e e e e e e e e e e e e e e e e e e e e e e e e e e e e e e 
+    e e e e e e e e e e e e e e e e e e e e e e e e e e e e e e e e e e e e e e e e e e e e e e e e e e e e e e e e e e e e e e e e e e e e e e e e e e e e e e e e e e e e e e e e e e e e e e e e e e e e e e e e e e e e e e e e e e e e e e e e e e e e e e e e e e e e e e e e e e e e e e e e e e e e e e e e e e e e e e e e 
+    e e e e e e e e e e e e e e e e e e e e e e e e e e e e e e e e e e e e e e e e e e e e e e e e e e e e e e e e e e e e e e e e e e e e e e e e e e e e e e e e e e e e e e e e e e e e e e e e e e e e e e e e e e e e e e e e e e e e e e e e e e e e e e e e e e e e e e e e e e e e e e e e e e e e e e e e e e e e e e e e 
+    e e e e e e e e e e e e e e e e e e e e e e e e e e e e e e e e e e e e e e e e e e e e e e e e e e e e e e e e e e e e e e e e e e e e e e e e e e e e e e e e e e e e e e e e e e e e e e e e e e e e e e e e e e e e e e e e e e e e e e e e e e e e e e e e e e e e e e e e e e e e e e e e e e e e e e e e e e e e e e e e 
+    e e e e e e e e e e e e e e e e e e e e e e e e e e e e e e e e e e e e e e e e e e e e e e e e e e e e e e e e e e e e e e e e e e e e e e e e e e e e e e e e e e e e e e e e e e e e e e e e e e e e e e e e e e e e e e e e e e e e e e e e e e e e e e e e e e e e e e e e e e e e e e e e e e e e e e e e e e e e e e e e 
+    e e e e e e e e e e e e e e e e e e e e e e e e e e e e e e e e e e e e e e e e e e e e e e e e e e e e e e e e e e e e e e e e e e e e e e e e e e e e e e e e e e e e e e e e e e e e e e e e e e e e e e e e e e e e e e e e e e e e e e e e e e e e e e e e e e e e e e e e e e e e e e e e e e e e e e e e e e e e e e e e 
+    e e e e e e e e e e e e e e e e e e e e e e e e e e e e e e e e e e e e e e e e e e e e e e e e e e e e e e e e e e e e e e e e e e e e e e e e e e e e e e e e e e e e e e e e e e e e e e e e e e e e e e e e e e e e e e e e e e e e e e e e e e e e e e e e e e e e e e e e e e e e e e e e e e e e e e e e e e e e e e e e 
+    e e e e e e e e e e e e e e e e e e e e e e e e e e e e e e e e e e e e e e e e e e e e e e e e e e e e e e e e e e e e e e e e e e e e e e e e e e e e e e e e e e e e e e e e e e e e e e e e e e e e e e e e e e e e e e e e e e e e e e e e e e e e e e e e e e e e e e e e e e e e e e e e e e e e e e e e e e e e e e e e 
+    e e e e e e e e e e e e e e e e e e e e e e e e e e e e e e e e e e e e e e e e e e e e e e e e e e e e e e e e e e e e e e e e e e e e e e e e e e e e e e e e e e e e e e e e e e e e e e e e e e e e e e e e e e e e e e e e e e e e e e e e e e e e e e e e e e e e e e e e e e e e e e e e e e e e e e e e e e e e e e e e 
+    e e e e e e e e e e e e e e e e e e e e e e e e e e e e e e e e e e e e e e e e e e e e e e e e e e e e e e e e e e e e e e e e e e e e e e e e e e e e e e e e e e e e e e e e e e e e e e e e e e e e e e e e e e e e e e e e e e e e e e e e e e e e e e e e e e e e e e e e e e e e e e e e e e e e e e e e e e e e e e e e 
+    e e e e e e e e e e e e e e e e e e e e e e e e e e e e e e e e e e e e e e e e e e e e e e e e e e e e e e e e e e e e e e e e e e e e e e e e e e e e e e e e e e e e e e e e e e e e e e e e e e e e e e e e e e e e e e e e e e e e e e e e e e e e e e e e e e e e e e e e e e e e e e e e e e e e e e e e e e e e e e e e 
+    e e e e e e e e e e e e e e e e e e e e e e e e e e e e e e e e e e e e e e e e e e e e e e e e e e e e e e e e e e e e e e e e e e e e e e e e e e e e e e e e e e e e e e e e e e e e e e e e e e e e e e e e e e e e e e e e e e e e e e e e e e e e e e e e e e e e e e e e e e e e e e e e e e e e e e e e e e e e e e e e 
+    e e e e e e e e e e e e e e e e e e e e e e e e e e e e e e e e e e e e e e e e e e e e e e e e e e e e e e e e e e e e e e e e e e e e e e e e e e e e e e e e e e e e e e e e e e e e e e e e e e e e e e e e e e e e e e e e e e e e e e e e e e e e e e e e e e e e e e e e e e e e e e e e e e e e e e e e e e e e e e e e 
+    e e e e e e e e e e e e e e e e e e e e e e e e e e e e e e e e e e e e e e e e e e e e e e e e e e e e e e e e e e e e e e e e e e e e e e e e e e e e e e e e e e e e e e e e e e e e e e e e e e e e e e e e e e e e e e e e e e e e e e e e e e e e e e e e e e e e e e e e e e e e e e e e e e e e e e e e e e e e e e e e 
+    e e e e e e e e e e e e e e e e e e e e e e e e e e e e e e e e e e e e e e e e e e e e e e e e e e e e e e e e e e e e e e e e e e e e e e e e e e e e e e e e e e e e e e e e e e e e e e e e e e e e e e e e e e e e e e e e e e e e e e e e e e e e e e e e e e e e e e e e e e e e e e e e e e e e e e e e e e e e e e e e 
+    e e e e e e e e e e e e e e e e e e e e e e e e e e e e e e e e e e e e e e e e e e e e e e e e e e e e e e e e e e e e e e e e e e e e e e e e e e e e e e e e e e e e e e e e e e e e e e e e e e e e e e e e e e e e e e e e e e e e e e e e e e e e e e e e e e e e e e e e e e e e e e e e e e e e e e e e e e e e e e e e 
+    e e e e e e e e e e e e e e e e e e e e e e e e e e e e e e e e e e e e e e e e e e e e e e e e e e e e e e e e e e e e e e e e e e e e e e e e e e e e e e e e e e e e e e e e e e e e e e e e e e e e e e e e e e e e e e e e e e e e e e e e e e e e e e e e e e e e e e e e e e e e e e e e e e e e e e e e e e e e e e e e 
+    `)
 mySprite = sprites.create(img`
     . . . . . . . . . . . . . . . . . . . . . . . . . . . . . . . . . . . b 1 . . . . . . . . . . . . . . 
     . . . . . . . . . . . . . . . . . . . . . . . . . . . . . . . . . . . b 1 . . . . . . . . . . . . . . 
@@ -338,7 +463,7 @@ mySprite3.follow(mySprite, 30)
 mySprite4.follow(mySprite, 10)
 game.onUpdate(function () {
     if (info.score() >= 2000) {
-        game.over(true)
+        game.over(true, effects.confetti)
     }
 })
 game.onUpdateInterval(5000, function () {
